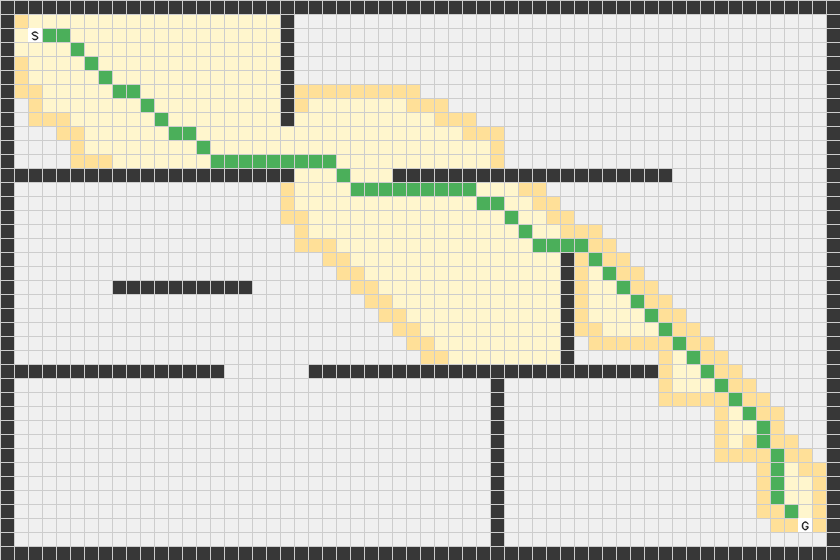
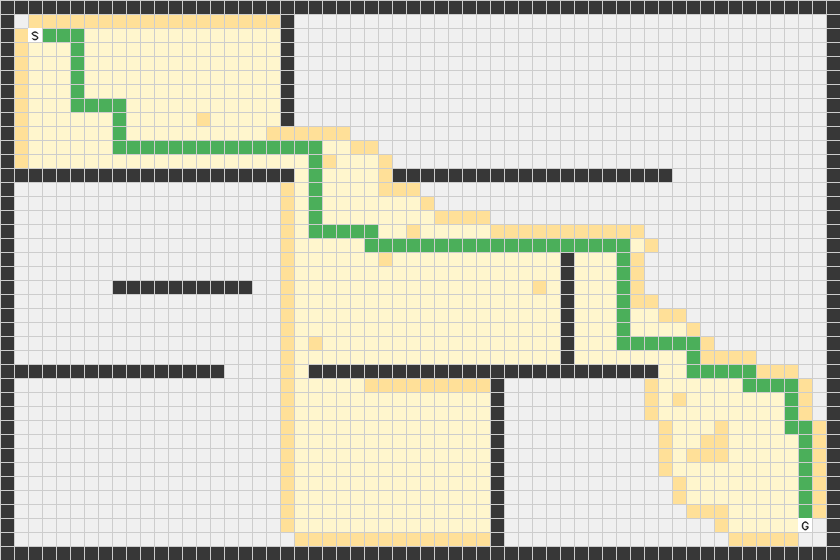
任务四：算法收成经典 A*（4 邻域 + 曼哈顿距离 + 每步代价 1）

Changed region(s): [[0.0, 0.0, 0.681, 1.0], [0.681, 0.3946, 0.9905, 1.0], [0.619, 0.4857, 0.65, 0.5464]]

diff --git a/navigation_ws/task4/src/astar.hpp b/navigation_ws/task4/src/astar.hpp
@@ -9,7 +9,6 @@
 #include "map.hpp"
 
 inline constexpr double INF = 1e18;
-inline constexpr double ROOT2 = 1.4142135623730951;
 
 struct Node {
     int x = 0;
@@ -30,21 +29,11 @@ struct Result {
     std::vector<unsigned char> colored;
 };
 
-inline double calc_g(const Node& node, const Node& parent) {
-    return (node.x != parent.x && node.y != parent.y) ? ROOT2 : 1.0;
+inline double calc_h(const Node& node, Point goal) {
+    return std::abs(node.x - goal.x) + std::abs(node.y - goal.y);
 }
 
-inline double calc_h(const Node& node, Point goal, bool allowDiagonal) {
-    const double dx = std::abs(node.x - goal.x);
-    const double dy = std::abs(node.y - goal.y);
-
-    if (!allowDiagonal)
-        return dx + dy;
-
-    return std::max(dx, dy) + (ROOT2 - 1.0) * std::min(dx, dy);
-}
-
-inline Result search(const Map& map, Point start, Point goal, bool allowDiagonal) {
+inline Result search(const Map& map, Point start, Point goal) {
     Result result;
     result.colored.assign(map.cells.size(), 0);
 
@@ -54,15 +43,15 @@ inline Result search(const Map& map, Point start, Point goal, bool allowDiagonal
     std::priority_queue<Node, std::vector<Node>, std::greater<Node>> openList;
 
     Node startNode{start.x, start.y};
-    startNode.h = calc_h(startNode, goal, allowDiagonal);
+    startNode.h = calc_h(startNode, goal);
 
     const int startIndex = map.index(start.x, start.y);
     gBest[startIndex] = 0.0;
     result.colored[startIndex] = 1;
     openList.push(startNode);
 
-    const int dx[8] = {1, -1, 0, 0, 1, 1, -1, -1};
-    const int dy[8] = {0, 0, 1, -1, 1, -1, 1, -1};
+    const int dx[4] = {1, -1, 0, 0};
+    const int dy[4] = {0, 0, 1, -1};
 
     while (!openList.empty()) {
         const Node now = openList.top();
@@ -81,8 +70,7 @@ inline Result search(const Map& map, Point start, Point goal, bool allowDiagonal
             break;
         }
 
-        const int count = allowDiagonal ? 8 : 4;
-        for (int i = 0; i < count; ++i) {
+        for (int i = 0; i < 4; ++i) {
             const int nextX = now.x + dx[i];
             const int nextY = now.y + dy[i];
             if (!map.free(nextX, nextY))
@@ -92,16 +80,12 @@ inline Result search(const Map& map, Point start, Point goal, bool allowDiagonal
             if (result.colored[nextIndex] == 2)
                 continue;
 
-            const bool diagonal = dx[i] != 0 && dy[i] != 0;
-            if (diagonal && (!map.free(now.x + dx[i], now.y) || !map.free(now.x, now.y + dy[i])))
-                continue;
-
             Node child{nextX, nextY};
-            child.g = now.g + calc_g(child, now);
+            child.g = now.g + 1.0;
             if (child.g >= gBest[nextIndex])
                 continue;
 
-            child.h = calc_h(child, goal, allowDiagonal);
+            child.h = calc_h(child, goal);
             gBest[nextIndex] = child.g;
             parent[nextIndex] = nowIndex;
             result.colored[nextIndex] = 1;

diff --git a/navigation_ws/task4/src/main.cpp b/navigation_ws/task4/src/main.cpp
@@ -80,21 +80,6 @@ cv::Mat draw(const Map& map, const Result& result, Point start, Point goal) {
     return image;
 }
 
-cv::Mat side_by_side(const std::vector<cv::Mat>& images) {
-    cv::Mat row;
-    for (std::size_t i = 0; i < images.size(); ++i) {
-        if (i == 0) {
-            row = images[i].clone();
-            continue;
-        }
-        cv::Mat padded;
-        cv::copyMakeBorder(
-            images[i], padded, 0, 0, 12, 0, cv::BORDER_CONSTANT, GRID_COLOR);
-        cv::hconcat(row, padded, row);
-    }
-    return row;
-}
-
 struct Case {
     std::string name;
     Map map;
@@ -148,25 +133,11 @@ int main() {
     const std::string outDir = "output/";
 
     for (auto& item : make_maps()) {
-        const Result result = search(item.map, item.start, item.goal, true);
+        const Result result = search(item.map, item.start, item.goal);
         print_info(item.name, result);
-        cv::imwrite(
-            outDir + item.name + ".png", draw(item.map, result, item.start, item.goal));
+        cv::imwrite(outDir + item.name + ".png", draw(item.map, result, item.start, item.goal));
     }
 
-    const std::vector<Case> maps = make_maps();
-    const Case& rooms = maps[2];
-
-    std::vector<cv::Mat> images;
-    for (const bool allowDiagonal : {false, true}) {
-        const Result result = search(rooms.map, rooms.start, rooms.goal, allowDiagonal);
-        const std::string label = allowDiagonal ? "rooms / 8-neighbor" : "rooms / 4-neighbor";
-        print_info(label, result);
-        images.push_back(draw(rooms.map, result, rooms.start, rooms.goal));
-    }
-    cv::imwrite(outDir + "neighbors.png", side_by_side(images));
-
-    std::cout << "结果图已写入 " << outDir
-              << "{tiny_5x5,regular_12x12,rooms,random,neighbors}.png\n";
+    std::cout << "结果图已写入 " << outDir << "{tiny_5x5,regular_12x12,rooms,random}.png\n";
     return 0;
 }

diff --git a/navigation_ws/task4.md b/navigation_ws/task4.md
@@ -9,14 +9,13 @@ cmake --build build -j8    # 编译
 ./build/task4_astar        # 运行
 ```
 
-**不带参数**，地图我都写在代码里了。跑完 `output/` 下有 5 张图：
+**不带参数**，地图我都写在代码里了。跑完 `output/` 下有 4 张图：
 
 ```
 tiny_5x5.png        5×5 最小地图
 regular_12x12.png   12×12 规则地图（三道错开的墙，绕 S 形走）
 rooms.png           60×40 房间地图（墙 + 门洞）
 random.png          60×40 随机障碍地图
-neighbors.png       同一张图 4 邻域 vs 8 邻域对比
 ```
 
 代码就 3 个文件，都放在 `src/` 下，各管各的：
@@ -38,7 +37,9 @@ maps.push_back(Case{"tiny_5x5", std::move(tiny), Point{0, 0}, Point{4, 4}});
 //                 ↑名字                        ↑起点      ↑终点
 ```
 
-**图的样式是照那份资料里的格子图来的**：没搜过的空地浅灰、展开过的格子（CloseList）刷淡黄、还在待办清单里的（OpenList）刷稍深一点的黄、障碍近黑，最后那条路径**一格一格填成绿色**（不是画细线）；每格都有一道浅灰边框，起点终点格子填白写个 `S` / `G`。**不画旗子和叉**，图上也不放标题和数字，看着干净；跑的数值只在终端里打印。
+**算法就是最经典的 A\***：4 邻域（只上下左右走，一步一格）、h(n) 用曼哈顿距离、每走一步代价 1。没做斜走那套，也就没有八方向距离和"穿墙角"要处理，代码短很多。
+
+**图的样式是照那份资料里的格子图来的**：没搜过的空地浅灰、展开过的格子（CloseList）刷淡黄、还在待办清单里的（OpenList）刷稍深一点的黄、障碍近黑，最后那条路径**一格一格填成绿色**；每格都有一道浅灰边框，起点终点格子填白写个 `S` / `G`。**不画旗子和叉**，图上也不放标题和数字，看着干净；跑的数值只在终端里打印。
 
 ## 二、代码
 
@@ -48,8 +49,8 @@ maps.push_back(Case{"tiny_5x5", std::move(tiny), Point{0, 0}, Point{4, 4}});
 |---|---|
 | `Node(x, y, Parent, g, h)` | `Node`（x / y / g / h）+ `parent[]` |
 | h(n)、CalcDeltaHValue | `calc_h()`、`node.h` |
-| dg(n)、CalcDeltaGValue | `calc_g()` |
 | g(n) | `node.g`、`gBest[]`（每格已知最好的 g） |
+| dg(n)、CalcDeltaGValue | 每步 `+ 1.0`（4 邻域一步一格，代价都一样） |
 | f(n) = h(n) + g(n) | `Node::f()` |
 | OpenList（优先队列） | `openList` |
 | CloseList、Colored 数组 | `colored[]`（0 没碰过 / 1 在 OpenList / 2 在 CloseList） |
@@ -150,10 +151,9 @@ public:
 
 #include "map.hpp"
 
-const double INF = 1e18;                    // 代表"还没到过"
-const double ROOT2 = 1.4142135623730951;    // 斜走一步的代价 = 根号2
+inline constexpr double INF = 1e18;    // 代表"还没到过"
 
-// 资料里 Node 类：x, y, Parent, g, h。这里 x/y 是坐标，g 是 g(n)，h 是 h(n)
+// 资料里的 Node 类：x, y, Parent, g, h。这里 x/y 是坐标，g 是 g(n)，h 是 h(n)
 // f(n) = h(n) + g(n)，出待办清单时按 f 从小到大排
 struct Node {
     int x = 0;
@@ -169,32 +169,19 @@ struct Node {
 // 一次寻路的结果
 struct Result {
     bool found = false;                    // 找到没有
-    int expanded = 0;                      // 展开（拓展）了多少格，也就是 CloseList 的大小
+    int expanded = 0;                      // 展开了多少格，也就是 CloseList 的大小
     double g = 0.0;                        // 终点的 g(n)，也就是路径总代价
     std::vector<Point> path;               // 起点→终点的路径
-    std::vector<unsigned char> colored;    // 就是资料里的 Colored 数组，见下面 1 / 2 的含义
+    std::vector<unsigned char> colored;    // 资料里的 Colored 数组，1 = 在 OpenList，2 = 在 CloseList
 };
 
-// dg(n)：从 parent 走到 node 多花多少代价。直走 1，斜走根号2
-inline double calc_g(const Node& node, const Node& parent) {
-    return (node.x != parent.x && node.y != parent.y) ? ROOT2 : 1.0;
+// h(n)：曼哈顿距离，横着差多少格 + 竖着差多少格。
+// 4 邻域下，真实最少要走的就是这么多，所以它永远不高估，A* 就保证能找到最短的
+inline double calc_h(const Node& node, Point goal) {
+    return std::abs(node.x - goal.x) + std::abs(node.y - goal.y);
 }
 
-// h(n)：估 node 到终点还剩多远。这个值不能高估，否则 A* 就不保证最优了
-inline double calc_h(const Node& node, Point goal, bool allowDiagonal) {
-    const double dx = std::abs(node.x - goal.x);
-    const double dy = std::abs(node.y - goal.y);
-
-    // 只能上下左右走：曼哈顿距离，在这个走法下刚好不高估
-    if (!allowDiagonal)
-        return dx + dy;
-
-    // 能斜走：先尽量斜走（一步根号2），剩下不够斜的再直走（一步 1）
-    return std::max(dx, dy) + (ROOT2 - 1.0) * std::min(dx, dy);
-}
-
-// allowDiagonal 为 true 就是 8 邻域（能斜走），false 就只能上下左右
-inline Result search(const Map& map, Point start, Point goal, bool allowDiagonal) {
+inline Result search(const Map& map, Point start, Point goal) {
     Result result;
     // colored 数组：0 = 没碰过，1 = 在 OpenList 里，2 = 已出 OpenList 进 CloseList
     result.colored.assign(map.cells.size(), 0);
@@ -208,16 +195,16 @@ inline Result search(const Map& map, Point start, Point goal, bool allowDiagonal
     std::priority_queue<Node, std::vector<Node>, std::greater<Node>> openList;
 
     Node startNode{start.x, start.y};
-    startNode.h = calc_h(startNode, goal, allowDiagonal);
+    startNode.h = calc_h(startNode, goal);
 
     const int startIndex = map.index(start.x, start.y);
     gBest[startIndex] = 0.0;
     result.colored[startIndex] = 1;
     openList.push(startNode);
 
-    // 八个方向：前 4 个是上下左右，后 4 个是四个斜角
-    const int dx[8] = {1, -1, 0, 0, 1, 1, -1, -1};
-    const int dy[8] = {0, 0, 1, -1, 1, -1, 1, -1};
+    // 4 邻域：上下左右
+    const int dx[4] = {1, -1, 0, 0};
+    const int dy[4] = {0, 0, 1, -1};
 
     while (!openList.empty()) {
         const Node now = openList.top();
@@ -240,9 +227,7 @@ inline Result search(const Map& map, Point start, Point goal, bool allowDiagonal
             break;
         }
 
-        // 不允许斜走时只看前 4 个方向
-        const int count = allowDiagonal ? 8 : 4;
-        for (int i = 0; i < count; ++i) {
+        for (int i = 0; i < 4; ++i) {
             const int nextX = now.x + dx[i];
             const int nextY = now.y + dy[i];
             if (!map.free(nextX, nextY))    // 出界或撞墙
@@ -252,18 +237,13 @@ inline Result search(const Map& map, Point start, Point goal, bool allowDiagonal
             if (result.colored[nextIndex] == 2)     // 已经在 CloseList 里了，不用再看
                 continue;
 
-            // 斜走时还要看会不会从两个障碍的缝里穿过去（穿墙角不合法）
-            const bool diagonal = dx[i] != 0 && dy[i] != 0;
-            if (diagonal && (!map.free(now.x + dx[i], now.y) || !map.free(now.x, now.y + dy[i])))
-                continue;
-
-            // g(n) = calc_g(n, parent) + g(parent)：这里 g(parent) 就是 now.g
+            // g(n) = calc_g(n, parent) + g(parent)：4 邻域每步都是 1，所以就是 now.g + 1
             Node child{nextX, nextY};
-            child.g = now.g + calc_g(child, now);
+            child.g = now.g + 1.0;
             if (child.g >= gBest[nextIndex])    // 不比已知的更好，就不用更新
                 continue;
 
-            child.h = calc_h(child, goal, allowDiagonal);
+            child.h = calc_h(child, goal);
             gBest[nextIndex] = child.g;
             parent[nextIndex] = nowIndex;
             result.colored[nextIndex] = 1;
@@ -288,50 +268,43 @@ inline Result search(const Map& map, Point start, Point goal, bool allowDiagonal
 `src/main.cpp` 就干三件事：造地图、调 `search`、把结果画成 PNG。画图就是每格先用 `cv::rectangle` 填个底色（看 `colored`：2 淡黄、1 稍深的黄、墙近黑），再把路径上的格子整格填绿，然后补一遍网格线，最后起点终点格子填白、写上 `S` / `G`。数字在终端里看：
 
 ```bash
-[tiny_5x5] 找到路径  expanded=20  points=8  g=7.4
-[regular_12x12] 找到路径  expanded=88  points=41  g=41.7
-[rooms] 找到路径  expanded=476  points=60  g=71.8
-[random] 找到路径  expanded=612  points=69  g=77.9
-[rooms / 4-neighbor] 找到路径  expanded=701  points=91  g=90.0
-[rooms / 8-neighbor] 找到路径  expanded=476  points=60  g=71.8
+[tiny_5x5] 找到路径  expanded=22  points=9  g=8.0
+[regular_12x12] 找到路径  expanded=89  points=45  g=44.0
+[rooms] 找到路径  expanded=701  points=91  g=90.0
+[random] 找到路径  expanded=740  points=93  g=92.0
 ```
 
 ## 三、结果
 
-四张地图我都跑了，全部找到路径：
+四张地图都跑通了：
 
 | 地图 | 尺寸 | 展开格数 | 路径点数 | 总代价 g |
 |---|---|---|---|---|
-| tiny_5x5 | 5×5 | 20 | 8 | 7.4 |
-| regular_12x12 | 12×12 | 88 | 41 | 41.7 |
-| rooms | 60×40 | 476 | 60 | 71.8 |
-| random | 60×40 | 612 | 69 | 77.9 |
+| tiny_5x5 | 5×5 | 22 | 9 | 8.0 |
+| regular_12x12 | 12×12 | 89 | 45 | 44.0 |
+| rooms | 60×40 | 701 | 91 | 90.0 |
+| random | 60×40 | 740 | 93 | 92.0 |
 
-**5×5 最小地图**：中间竖着一道 1×3 的墙，起点在左上角、终点在右下角，路径得绕过去。代价 7.4，就是 1 步斜走（1.41）加 6 步直走。
+**5×5 最小地图**：中间竖着一道 1×3 的墙，起点左上、终点右下。曼哈顿距离就是 8 格，路径正好 8 步走完，一格没多绕。
 
 ![5x5 地图](task4/output/tiny_5x5.png)
 
-**12×12 规则地图**：三道墙错开（右边留口、左边留口、右边留口），所以路径是个 S 形。
+**12×12 规则地图**：三道墙错开（右边留口、左边留口、右边留口），只能这么拐着走。起点到终点直线只需要 22 步，被墙逼着绕成了 44 步——正好一倍，因为每次都要"钻门再折回来"。
 
 ![12x12 地图](task4/output/regular_12x12.png)
 
-**60×40 房间地图**：墙把地图切成几个房间，得绕门洞走。淡黄是展开过的格子（CloseList），稍深的黄是还在待办清单里、贴着障碍的那层边（OpenList）。
+**60×40 房间地图**：墙把地图切成几间房，得绕门洞走。代价 90 正好等于曼哈顿距离 55+35=90，说明这张图虽然要绕门，但没多走一步冤枉路。淡黄是展开过的格子（CloseList），稍深的黄是还在待办清单里、贴着障碍的那层边（OpenList）。
 
 ![rooms 地图](task4/output/rooms.png)
 
-## 四、顺带验证的一件事
+**60×40 随机地图**：障碍是按 28% 概率随机撒的，代价 92，比曼哈顿的 90 多了 2 步，就是被挡了一下绕的。
 
-同一张 rooms 地图，我只改了"准不准斜走"一个开关：
+![random 地图](task4/output/random.png)
 
-![4邻域与8邻域](task4/output/neighbors.png)
+## 四、按资料 2.1.6 的思路处理的两个地方
 
-| 配置 | 展开格数 | 路径点数 | 总代价 g |
-|---|---|---|---|
-| 4 邻域（只能上下左右） | 701 | 91 | 90.0 |
-| 8 邻域（可斜走） | 476 | 60 | 71.8 |
+**第一，CloseList 用数组涂色，不在链表里查。** 资料里说地图大了以后"查这个点在不在 CloseList 里"很费时间，所以另开一个和地图一样大的数组：在 CloseList 里就是 2，在 OpenList 里就是 1，没碰过就是 0。查一次就是 `colored[map.index(x, y)]`，一步到位，不用遍历。
 
-这次两边一比，**8 邻域是又快又短**：展开的格子少了三成，代价从 90 降到 71.8，少了 20%。
+**第二，OpenList 里的"过期数据"要跳过。** 同一个格子可能会被不同的路走到好几次，每来一次都会往 OpenList 里塞一份，所以堆里会同时躺着同一个格子的好几份。出队的时候先看一眼 `colored`：如果这格已经进过 CloseList（等于 2），说明这份是旧的，直接 `continue`。这样不用去堆里精确删元素，实现简单很多，效果一样。
 
-4 邻域那个 90 也对得上——从 (2,2) 到 (57,37) 横竖各要走 55+35=90 步，一步代价 1，所以就是 90。8 邻域能斜走，路径点数从 91 掉到 60，也不再是一格一格的锯齿了。所以能斜走就让它斜走。
-
-另外踩了两个坑：一是斜走会穿墙（就是代码里那段 `diagonal` 判断），二是同一个格子会在优先队列里躺好几份（用 `colored[nowIndex] == 2` 跳过过期数据）。顺便一提，`expanded` 以前会重复统计同一格，现在改成按 CloseList 去重，所以 rooms 从 527 变成了 476，路径和代价没变。
+数据上也能对上：`expanded` 就是 CloseList 的大小（每格只算一次），比如 rooms 是 701 格；换成允许斜走的八邻域本来能少展开不少，但那就不是经典 A* 了，这里没做。
